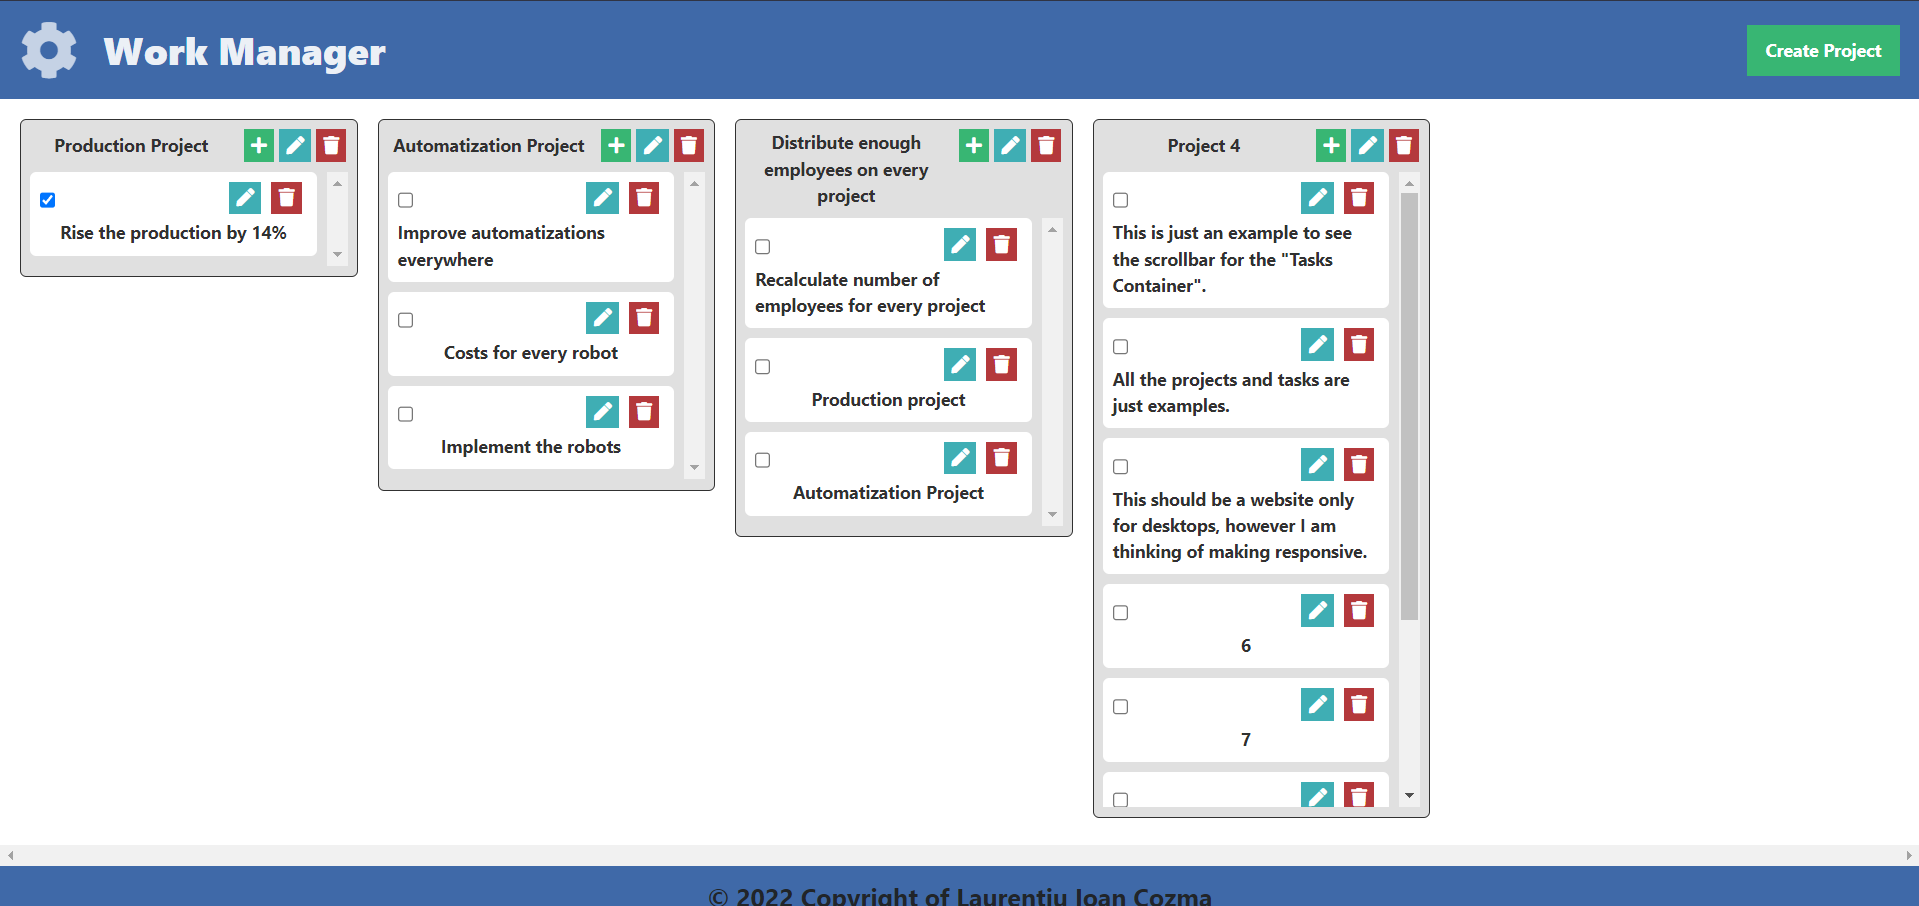
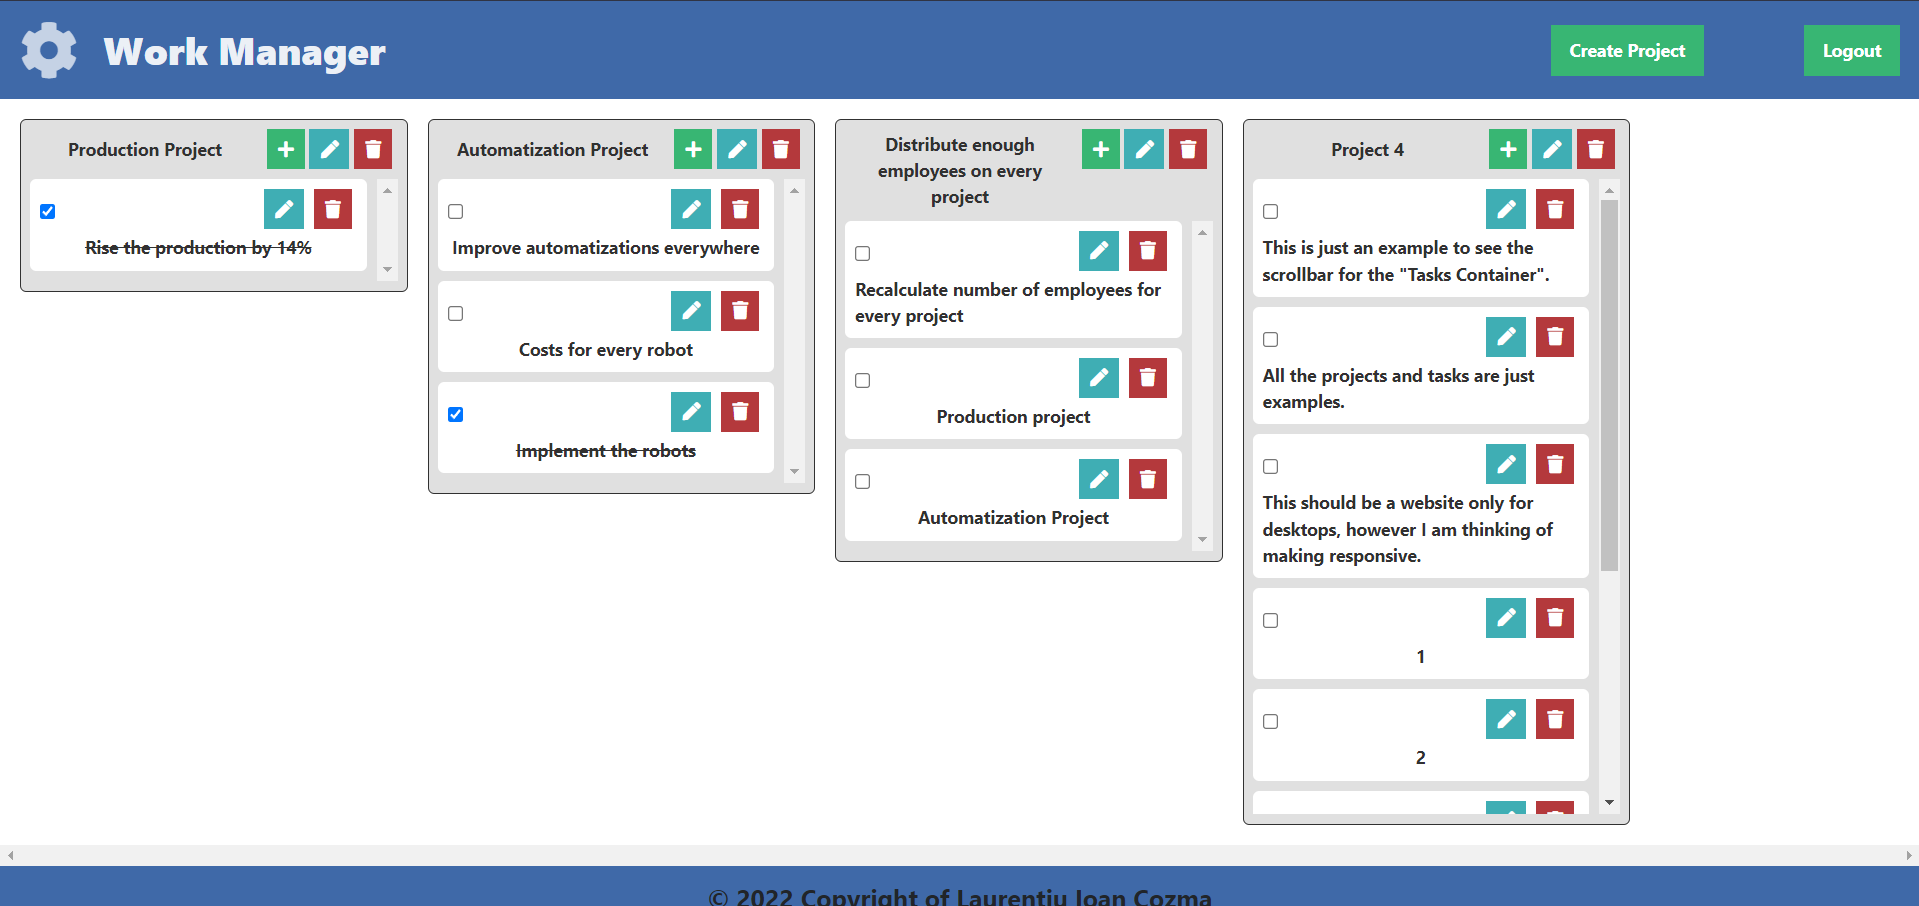
preview

Changed region(s): [[0.0, 0.1236, 0.8609, 0.9272], [0.7994, 0.0, 0.9838, 0.0927], [0.3689, 0.989, 0.6456, 1.0]]

diff --git a/README.md b/README.md
@@ -1,6 +1,13 @@
 # Work Manager
-Work Manager is my thesis. The user is able to add/edit/delete it's projects or tasks. Also the user is able to check every task after completion.
+Work Manager is my thesis. 
+**The user is able to:**
+- register and login into the site
+- add/edit/delete it's projects or tasks
+- check every task after completion
+
 # Dashboard Preview  
+![login](https://github.com/laurentiucozma12/Work-Manager-Thesis/blob/master/projectPreview/login.png)     
+![register](https://github.com/laurentiucozma12/Work-Manager-Thesis/blob/master/projectPreview/register.png)     
 ![dashboard](https://github.com/laurentiucozma12/Work-Manager-Thesis/blob/master/projectPreview/dashboard.png)     
 ![database_projects](https://github.com/laurentiucozma12/Work-Manager-Thesis/blob/master/projectPreview/database_projects.png)     
 ![database_tasks](https://github.com/laurentiucozma12/Work-Manager-Thesis/blob/master/projectPreview/database_tasks.png)    
@@ -16,8 +23,3 @@ Work Manager is my thesis. The user is able to add/edit/delete it's projects or 
 - [XAMPP](https://www.apachefriends.org/docs/)
 - [jQuery](https://api.jquery.com/)
 - [Ajax](https://api.jquery.com/jquery.ajax/)
-- []()
-- []()
-- []()
-- []()
-
